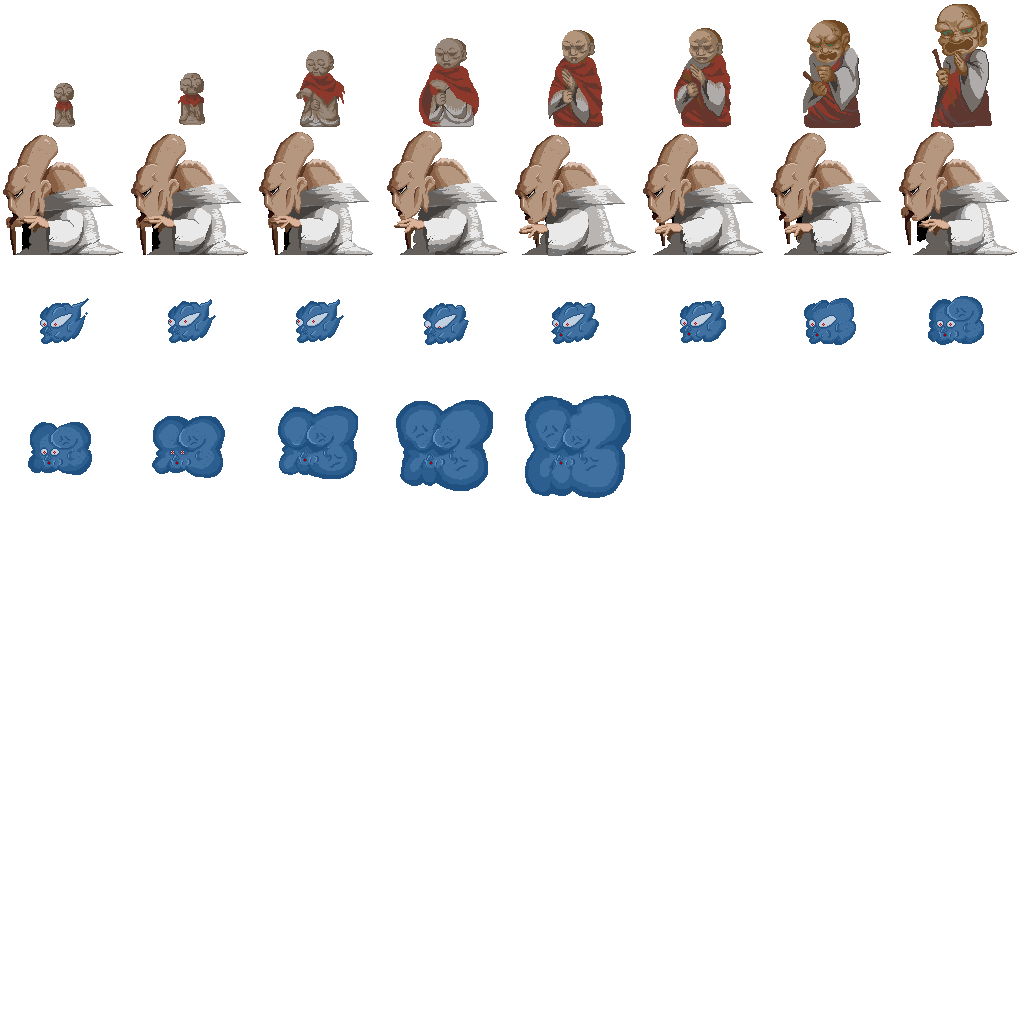
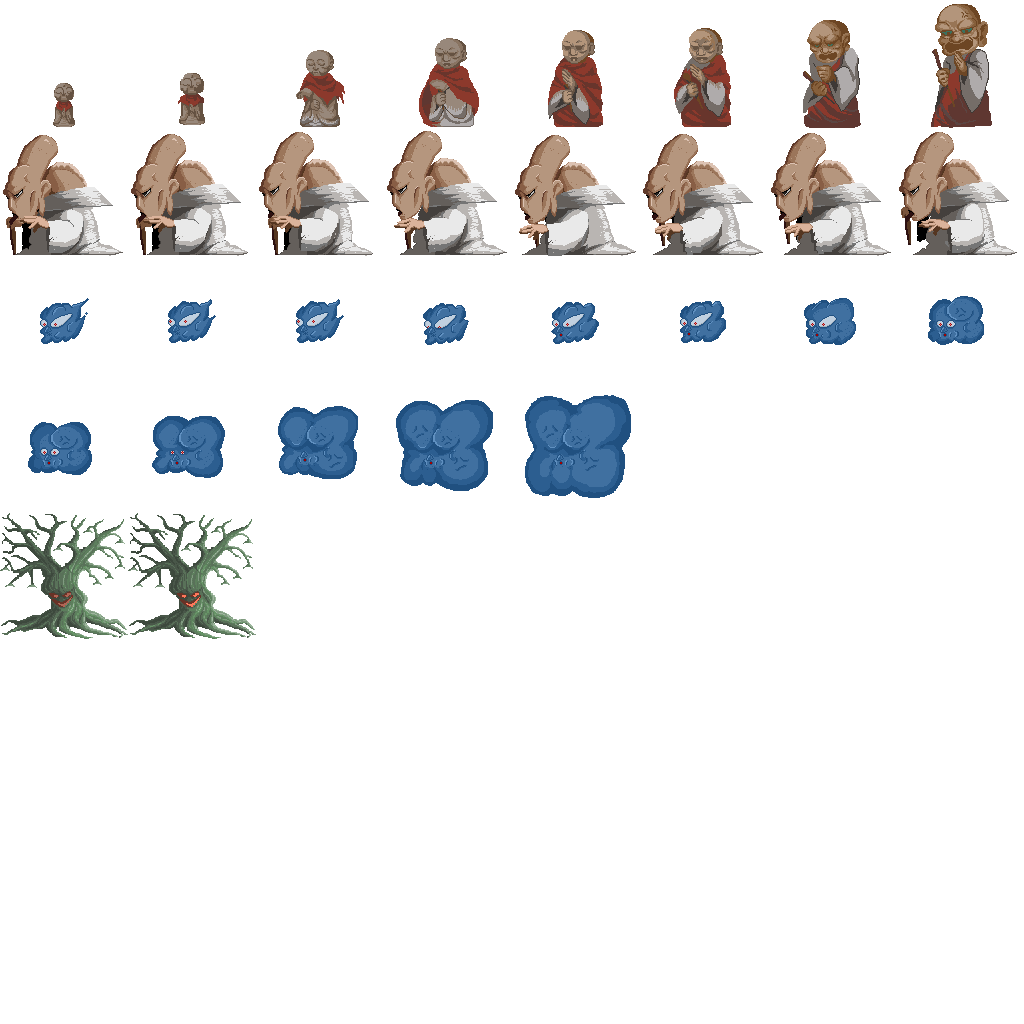
Ace人面樹追加

Changed region(s): [[0.0, 0.5, 0.25, 0.625]]

diff --git a/Solution/AceEditor/ObjectMenu.cpp b/Solution/AceEditor/ObjectMenu.cpp
@@ -69,6 +69,7 @@ const Rect enemies_rect[ ] = {
 	RECT_WIND,
 	RECT_ONYUDO,
 	RECT_JIZO,
+	RECT_TREE,
 };
 const int MAX_ENEMY = sizeof( enemies_rect ) / sizeof( enemies_rect[ 0 ] );
 
@@ -276,6 +277,9 @@ unsigned char ObjectMenu::getEnemy( int idx ) const {
 	case 26:
 		result = OBJECT_JIZO;
 		break;
+	case 27:
+		result = OBJECT_TREE;
+		break;
 	default:
 		result = OBJECT_NONE;
 		break;
@@ -408,7 +412,7 @@ void ObjectMenu::draw( ) const {
 							_enemy[ GRAPH_ENEMY_WIDE ]->setPos( sx, sy, sx + NORMAL_CHAR_GRAPH_SIZE, sy + NORMAL_CHAR_GRAPH_SIZE );
 							_enemy[ GRAPH_ENEMY_WIDE ]->draw( );
 						}
-						if ( 23 < idx && idx < 27 ) {
+						if ( 23 < idx && idx < 28 ) {
 							_enemy[ GRAPH_ENEMY_BIG ]->setRect( enemies_rect[ idx ].tx, enemies_rect[ idx ].ty, BIG_CHAR_GRAPH_SIZE, BIG_CHAR_GRAPH_SIZE );
 							_enemy[ GRAPH_ENEMY_BIG ]->setPos( sx, sy, sx + NORMAL_CHAR_GRAPH_SIZE, sy + NORMAL_CHAR_GRAPH_SIZE );
 							_enemy[ GRAPH_ENEMY_BIG ]->draw( );

diff --git a/Solution/AceLiveMonitor/EnemyTree.cpp b/Solution/AceLiveMonitor/EnemyTree.cpp
@@ -1,0 +1,42 @@
+#include "EnemyTree.h"
+
+static const int WAIT_ANIM_TIME = 5;
+
+EnemyTree::EnemyTree( const Vector& pos ) :
+Enemy( pos, BIG_CHAR_GRAPH_SIZE ) {
+	setRadius( 36 );
+}
+
+
+EnemyTree::~EnemyTree( ) {
+}
+
+void EnemyTree::act( ) {
+
+}
+
+Chip EnemyTree::getChip( ) const {
+	const int ANIM[ ] = {
+		0, 1
+	};
+	int anim_size = sizeof( ANIM ) / sizeof( ANIM[ 0 ] );
+	Chip chip = Chip( );
+	chip.tx = ANIM[ getActCount( ) / WAIT_ANIM_TIME % anim_size ] * 128;
+	chip.ty = 6 * 128;
+	chip.size = getChipSize( );
+	
+	Vector pos = getPos( );
+	DIR dir = getDir( );
+	if ( dir == DIR_RIGHT ){
+		chip.sx1 = ( int )pos.x - chip.size / 2 + chip.size;
+		chip.sy1 = ( int )pos.y - chip.size;
+		chip.sx2 = chip.sx1 - chip.size;
+		chip.sy2 = chip.sy1 + chip.size;
+	} else {
+		chip.sx1 = ( int )pos.x - chip.size / 2;
+		chip.sy1 = ( int )pos.y - chip.size;
+		chip.sx2 = chip.sx1 + chip.size;
+		chip.sy2 = chip.sy1 + chip.size;
+	}
+	return chip;
+}

diff --git a/Solution/AceLiveMonitor/Popper.cpp b/Solution/AceLiveMonitor/Popper.cpp
@@ -31,6 +31,7 @@
 #include "PopWind.h"
 #include "PopOnyudo.h"
 #include "PopJizo.h"
+#include "PopTree.h"
 
 PopperPtr Popper::getTask( ) {
 	return std::dynamic_pointer_cast< Popper >( Application::getInstance( )->getTask( getTag( ) ) );
@@ -131,6 +132,9 @@ void Popper::initialize( ) {
 				break;
 			case OBJECT_JIZO:
 				_pops.push_back( PopPtr( new PopJizo( Vector( x, y ) ) ) );
+				break;
+			case OBJECT_TREE:
+				_pops.push_back( PopPtr( new PopTree( Vector( x, y ) ) ) );
 				break;
 			}
 		}

diff --git a/Solution/AceCommon/ace_enemy_rect.h b/Solution/AceCommon/ace_enemy_rect.h
@@ -45,3 +45,4 @@ const Rect RECT_LADY			( 0 * CHIP_SIZE, 1 * CHIP_SIZE );
 const Rect RECT_WIND			( 4 * BIG_CHIP_SIZE, 3 * BIG_CHIP_SIZE );
 const Rect RECT_ONYUDO			( 0 * BIG_CHIP_SIZE, 1 * BIG_CHIP_SIZE );
 const Rect RECT_JIZO			( 7 * BIG_CHIP_SIZE, 0 * BIG_CHIP_SIZE );
+const Rect RECT_TREE			( 0 * BIG_CHIP_SIZE, 4 * BIG_CHIP_SIZE );

diff --git a/Solution/AceLiveMonitor/PopTree.cpp b/Solution/AceLiveMonitor/PopTree.cpp
@@ -1,0 +1,20 @@
+#include "PopTree.h"
+#include "EnemyTree.h"
+#include "Military.h"
+
+
+PopTree::PopTree( const Vector& pos ) :
+_pos( pos ),
+_pop( false ) {
+}
+
+
+PopTree::~PopTree( ) {
+}
+
+void PopTree::update( ) {
+	if ( !_pop ) {
+		Military::getTask( )->popUp( EnemyPtr( new EnemyTree( _pos ) ) );
+		_pop = true;
+	}
+}

diff --git a/Solution/AceCommon/ace_define.h b/Solution/AceCommon/ace_define.h
@@ -100,6 +100,7 @@ const unsigned char OBJECT_LADY				= 0x19;
 const unsigned char OBJECT_WIND				= 0x1A;
 const unsigned char OBJECT_ONYUDO			= 0x1B;
 const unsigned char OBJECT_JIZO				= 0x1C;
+const unsigned char OBJECT_TREE				= 0x1D;
 
 
 const unsigned char OBJECT_ENEMY_END = 0x7F;

diff --git a/Solution/AceLiveMonitor/PopTree.h b/Solution/AceLiveMonitor/PopTree.h
@@ -1,0 +1,15 @@
+#pragma once
+#include "Pop.h"
+#include "mathmatics.h"
+
+class PopTree : public Pop {
+public:
+	PopTree( const Vector& pos );
+	virtual ~PopTree( );
+public:
+	void update( );
+private:
+	bool _pop;
+	Vector _pos;
+};
+

diff --git a/Solution/AceLiveMonitor/EnemyTree.h b/Solution/AceLiveMonitor/EnemyTree.h
@@ -1,0 +1,12 @@
+#pragma once
+#include "Enemy.h"
+
+class EnemyTree : public Enemy {
+public:
+	EnemyTree( const Vector& pos );
+	virtual ~EnemyTree( );
+public:
+	Chip getChip( ) const;
+protected:
+	void act( );
+};
